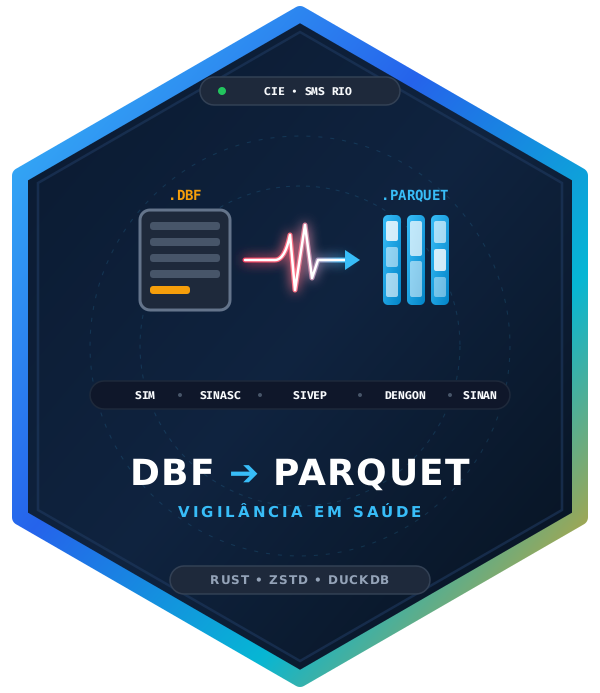
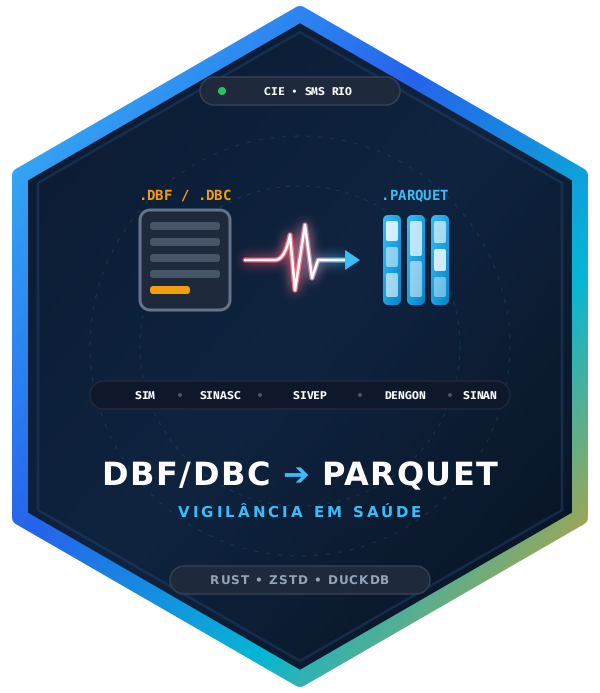
feat(branding): atualiza título e artes para 'DBF/DBC para Parquet' destacando o suporte a DBC

Changed region(s): [[0.15, 0.6364, 0.84, 0.7273], [0.24, 0.2727, 0.39, 0.303]]

diff --git a/README.md b/README.md
@@ -1,14 +1,14 @@
 <p align="center">
-  <img src="docs/banner.png" alt="Conversor DBF para Parquet — Banner Oficial" width="100%" style="border-radius: 10px; box-shadow: 0 8px 24px rgba(0,0,0,0.25);" />
+  <img src="docs/banner.png" alt="Conversor DBF/DBC para Parquet — Banner Oficial" width="100%" style="border-radius: 10px; box-shadow: 0 8px 24px rgba(0,0,0,0.25);" />
 </p>
 
 <p align="center">
   <a href="docs/hex_sticker_hd.png" title="Clique para ampliar o Selo Hexagonal Oficial">
-    <img src="docs/hex_sticker.png" alt="Selo Hexagonal Oficial - DBF para Parquet" width="160px" align="right" style="margin-left: 20px; margin-bottom: 20px;" />
+    <img src="docs/hex_sticker.png" alt="Selo Hexagonal Oficial - DBF/DBC para Parquet" width="160px" align="right" style="margin-left: 20px; margin-bottom: 20px;" />
   </a>
 </p>
 
-# Conversor de Bases da Vigilância para Parquet
+# Conversor de Bases da Vigilância — DBF / DBC para Parquet
 
 <p align="left">
   <img src="https://img.shields.io/badge/Rust-1.80+-orange.svg?style=for-the-badge&logo=rust" alt="Rust" />
